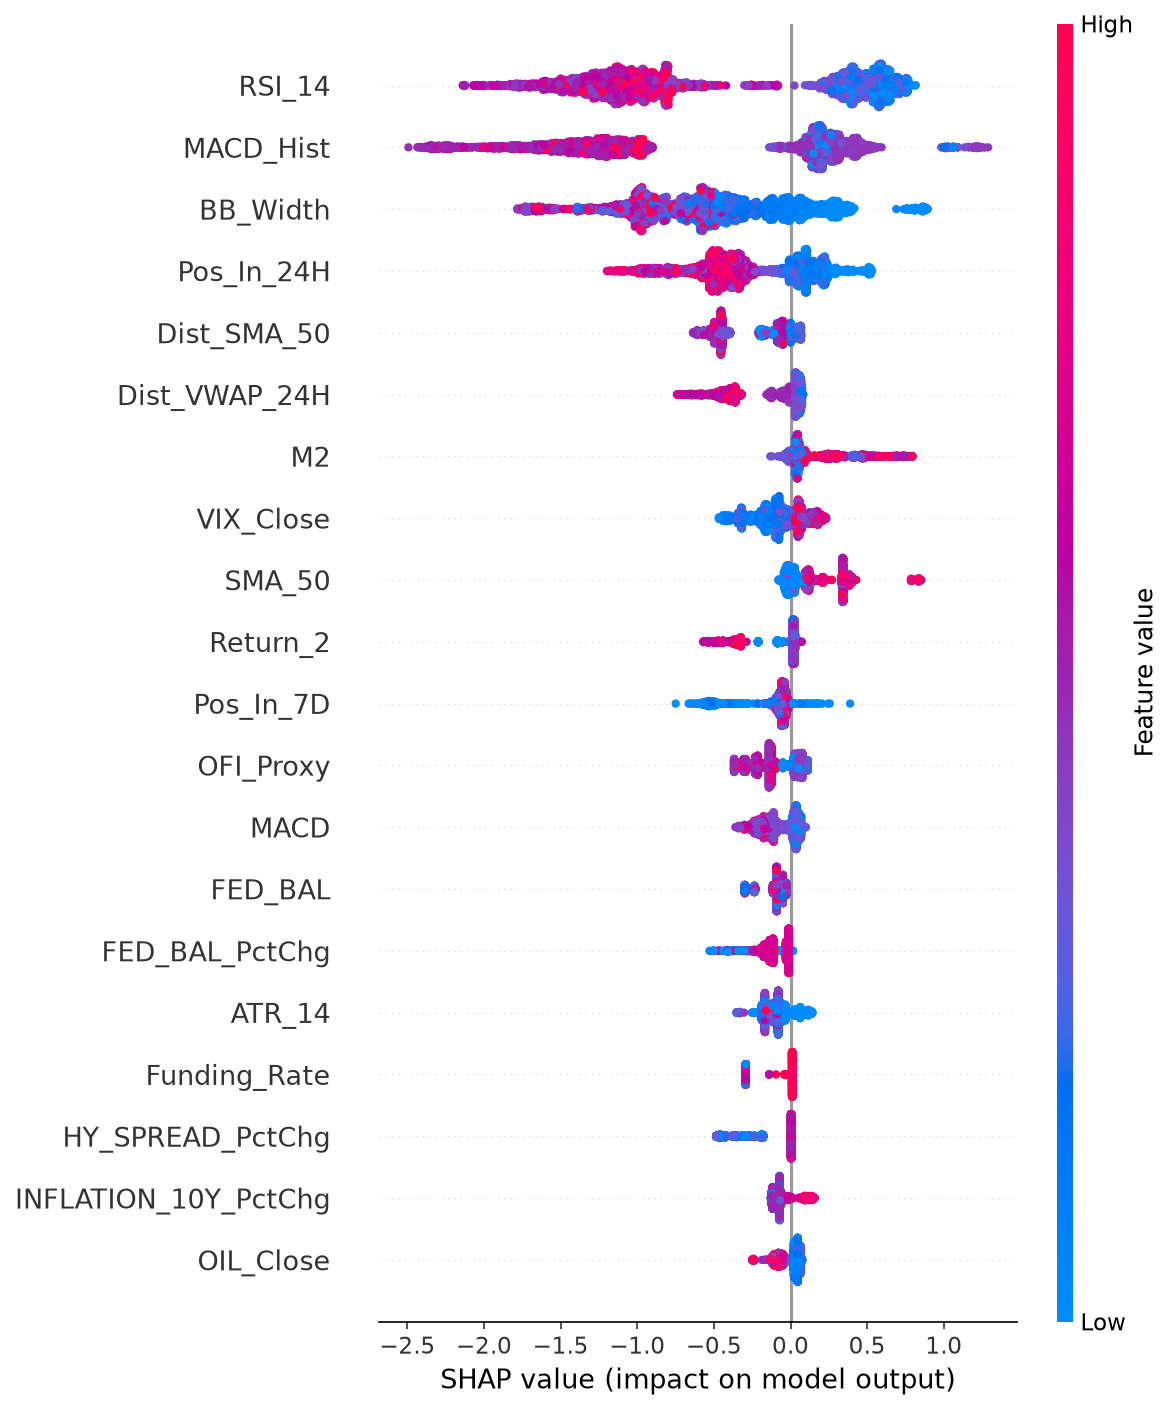
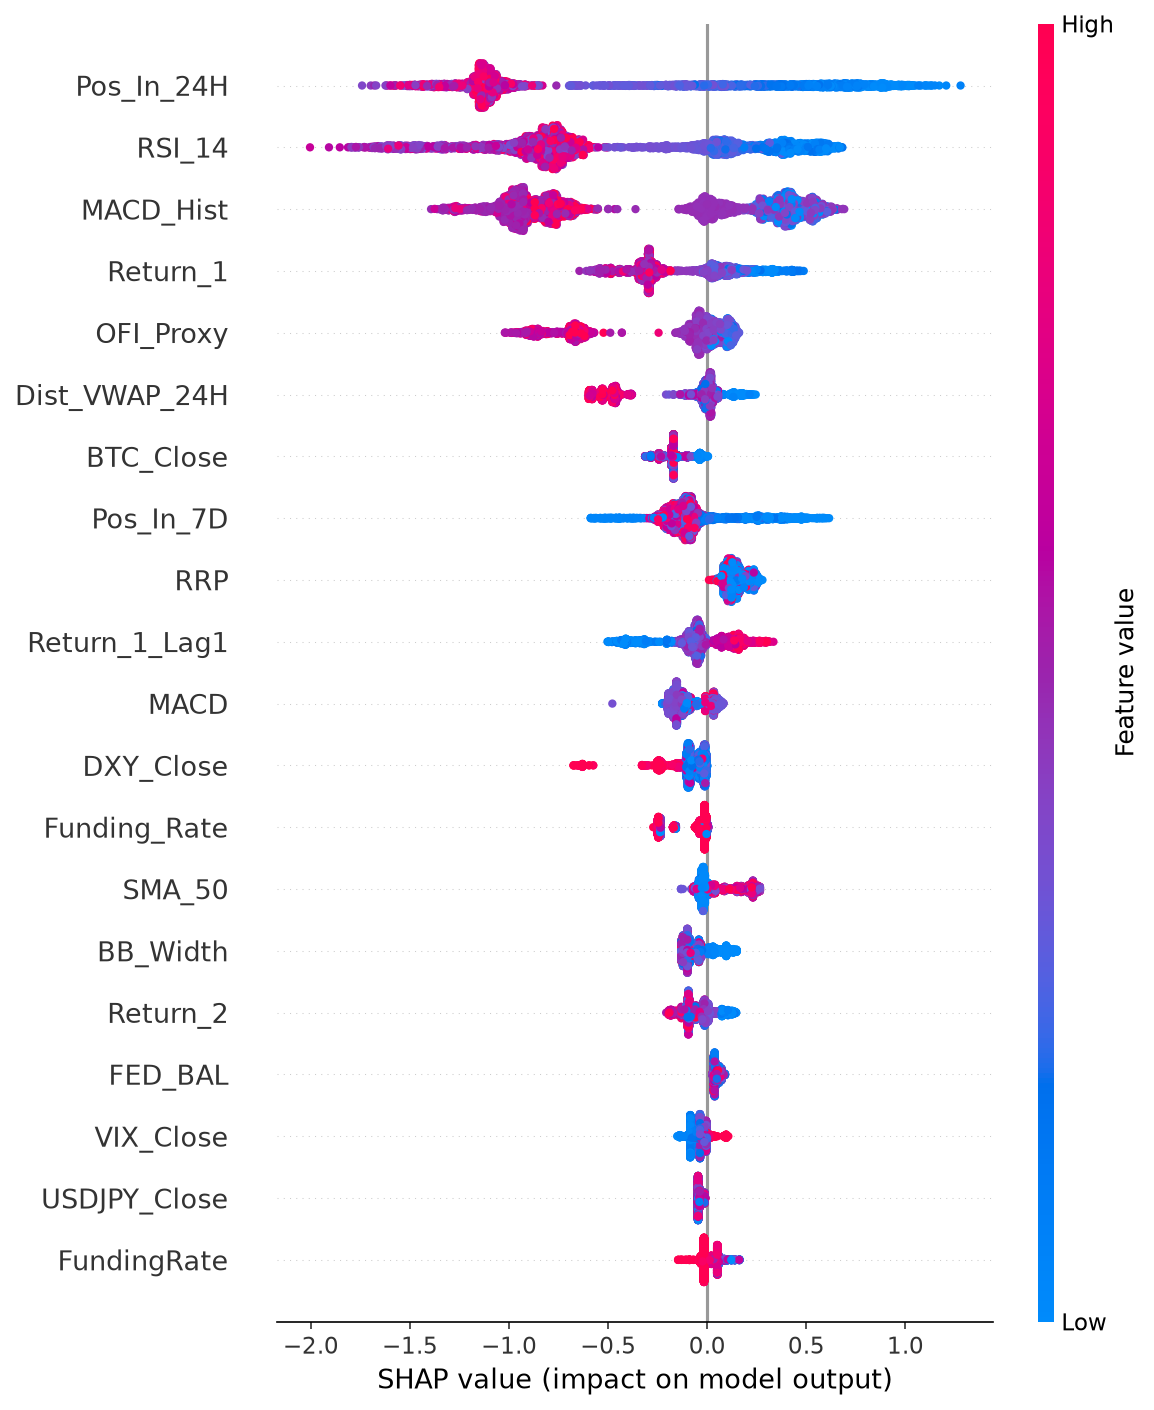
test1

diff --git a/core/research_agent.py b/core/research_agent.py
@@ -69,8 +69,8 @@ def make_nodes(optimizer, llm):
     def researcher_node(state: AgentState):
         log.info(f"[Researcher] Iteration {state['iteration']}")
         if state['iteration'] == 0:
-            state['tp_range'] = [0.03, 0.05, 0.08]
-            state['sl_range'] = [0.01, 0.02]
+            state['tp_range'] = [0.05, 0.10, 0.15, 0.20]
+            state['sl_range'] = [0.05, 0.10, 0.15, 0.20]
             state['messages'].append(SystemMessage(content="Started research."))
         else:
             clean_results = [{'tp_pct': r['tp_pct'], 'sl_pct': r['sl_pct'], 'precision': r['precision']} for r in state['top_results']]
@@ -78,10 +78,10 @@ def make_nodes(optimizer, llm):
                 "You are a Quant Researcher. Our last hyperparameter sweep results:\n"
                 f"{clean_results}\n"
                 f"Evaluator feedback: {state['feedback']}\n\n"
-                "Propose new TP and SL values to test. "
+                "Propose new TP and SL values to test. Aim for trend following with wide TP, but KEEP SL <= 0.30 to avoid bad entry points. "
                 "Respond ONLY in this exact format (no markdown):\n"
-                "TP: 0.04, 0.06, 0.09\n"
-                "SL: 0.015, 0.025"
+                "TP: 0.15, 0.20, 0.30\n"
+                "SL: 0.10, 0.20, 0.30"
             )
             try:
                 response = llm.invoke([HumanMessage(content=prompt)])
@@ -96,8 +96,8 @@ def make_nodes(optimizer, llm):
                 log.info(f"  LLM proposed: TP={tps}, SL={sls}")
             except Exception as e:
                 log.warning(f"  LLM parse failed ({e}), using fallback grid")
-                state['tp_range'] = [0.04, 0.06, 0.10]
-                state['sl_range'] = [0.015, 0.025]
+                state['tp_range'] = [0.08, 0.12, 0.20]
+                state['sl_range'] = [0.08, 0.12, 0.20]
         return state
 
     def executor_node(state: AgentState):
@@ -121,7 +121,7 @@ def make_nodes(optimizer, llm):
             log.info("  -> Max iterations reached. Stopping.")
             state['feedback'] = "FAIL_MAX_ITER"
         else:
-            state['feedback'] = f"Precision {prec:.4f} too low. Try wider TP or tighter SL."
+            state['feedback'] = f"Precision {prec:.4f} too low. Try wider SL to give the trade more room to breathe."
             state['iteration'] += 1
         return state
 

diff --git a/core/visualizer.py b/core/visualizer.py
@@ -11,7 +11,7 @@ class Visualizer:
         else:
             plot_df = self.df.copy()
 
-        if feature_importances is not None and not feature_importances.empty:
+        if feature_importances:
             fig = make_subplots(
                 rows=2, cols=1, 
                 shared_xaxes=False,
@@ -67,8 +67,10 @@ class Visualizer:
             ), row=1, col=1)
 
         # Feature Importance
-        if feature_importances is not None and not feature_importances.empty:
-            sorted_feats = feature_importances.sort_values(ascending=True)
+        if feature_importances:
+            import pandas as pd
+            feat_series = pd.Series(feature_importances)
+            sorted_feats = feat_series.sort_values(ascending=True)
             fig.add_trace(go.Bar(
                 x=sorted_feats.values,
                 y=sorted_feats.index,
@@ -83,7 +85,7 @@ class Visualizer:
             
         fig.update_layout(
             title=title, xaxis_rangeslider_visible=False,
-            template='plotly_dark', height=800 if (feature_importances is not None and not feature_importances.empty) else 600
+            template='plotly_dark', height=800 if feature_importances else 600
         )
         fig.show()
 
@@ -179,4 +181,27 @@ class Visualizer:
         ), row=2, col=1)
         
         fig.update_layout(title=f'Trade Analytics (Wins: {win_count}, Losses: {loss_count}, Conflicts Avoided: {conflict_count})', template='plotly_dark', height=700)
+        fig.show()
+
+    def plot_correlation_heatmap(self, feature_names):
+        """Plot Correlation Heatmap for the top features"""
+        features = [f for f in feature_names if f in self.df.columns]
+        if not features:
+            return
+            
+        corr = self.df[features].corr()
+        
+        fig = go.Figure(data=go.Heatmap(
+            z=corr.values,
+            x=corr.columns,
+            y=corr.columns,
+            colorscale='RdBu',
+            zmin=-1, zmax=1
+        ))
+        
+        fig.update_layout(
+            title='Top Features Correlation Heatmap',
+            template='plotly_dark',
+            width=800, height=800
+        )
         fig.show()

diff --git a/core/optimizer.py b/core/optimizer.py
@@ -54,7 +54,7 @@ class QuantOptimizer:
                 max_depth=3,
                 scale_pos_weight=scale_weight,
                 random_state=42,
-                n_jobs=-1,
+                n_jobs=4,
                 verbosity=0,
             )
             model.fit(X_train, y_train)
@@ -90,7 +90,7 @@ class QuantOptimizer:
             'last_X_test': last_X_test
         }
 
-    def evaluate_params(self, tp_pct, sl_pct, max_bars=40):
+    def evaluate_params(self, tp_pct, sl_pct, max_bars=300):
         """Evaluate a single TP/SL config using TimeSeriesSplit CV for both Long and Short."""
         # 1. Generate Labels
         labeler = self.label_generator_class(

diff --git a/core/labels.py b/core/labels.py
@@ -11,7 +11,7 @@ import numpy as np
 
 
 class LabelGenerator:
-    def __init__(self, df, window=20, tp_pct=0.03, sl_pct=0.01, max_bars=40):
+    def __init__(self, df, window=20, tp_pct=0.03, sl_pct=0.01, max_bars=300):
         self.df = df.copy()
         self.window = window
         self.tp_pct = tp_pct

diff --git a/data/zecusdt/summary_report.md b/data/zecusdt/summary_report.md
@@ -1,17 +1,17 @@
 # 📊 Quant Research Report: ZECUSDT (Long/Short Dual Model)
 
 ## 1. ⚙ การตั้งค่าที่ให้ผลลัพธ์ดีที่สุด (Best Configuration)
-- **Take Profit (TP):** 12.0%
-- **Stop Loss (SL):** 0.8%
-- **ความแม่นยำรวม (Precision):** 2.84%
+- **Take Profit (TP):** 35.0%
+- **Stop Loss (SL):** 25.0%
+- **ความแม่นยำรวม (Precision):** 5.49%
 
-> **💡 ความหมาย:** เมื่อโมเดลสั่งเทรด ราคาจะมีโอกาสวิ่งไปชน TP ก่อน SL ด้วยความแม่นยำประมาณ 2.84%
+> **💡 ความหมาย:** เมื่อโมเดลสั่งเทรด ราคาจะมีโอกาสวิ่งไปชน TP ก่อน SL ด้วยความแม่นยำประมาณ 5.49%
 
 ## 2. 📉 ผลการจำลองเทรด (Trade Simulation & Confusion Matrix)
-- **จำนวนไม้ทั้งหมดที่โมเดลบอกให้เทรด (Total Trades):** 1084 (Long: 720, Short: 364)
-- **ชนะ (Wins):** 24
-- **แพ้ (Losses):** 1060
-- **Win Rate รวม:** 2.21%
+- **จำนวนไม้ทั้งหมดที่โมเดลบอกให้เทรด (Total Trades):** 2394 (Long: 1368, Short: 1026)
+- **ชนะ (Wins):** 101
+- **แพ้ (Losses):** 2293
+- **Win Rate รวม:** 4.22%
 
 ## 3. 🧠 SHAP Values (Explainable AI)
 วิเคราะห์ว่า Feature แต่ละตัวส่งผลอย่างไรต่อการตัดสินใจของโมเดล (จุดสีแดง = ค่าสูง, จุดสีน้ำเงิน = ค่าต่ำ)
@@ -23,13 +23,13 @@
 ![SHAP Short](./shap_short.png)
 
 ## 4. 🔍 ปัจจัยที่มีผลต่อการตัดสินใจมากที่สุด (Top Feature Importances)
-1. **RSI_14** (Score: 0.1370)
-2. **FED_BAL** (Score: 0.0567)
-3. **Pos_In_7D** (Score: 0.0452)
-4. **RRP_PctChg** (Score: 0.0452)
-5. **MACD_Hist** (Score: 0.0433)
-6. **BB_Width** (Score: 0.0428)
-7. **Pos_In_24H** (Score: 0.0370)
-8. **RRP** (Score: 0.0359)
-9. **OFI_Proxy** (Score: 0.0340)
-10. **FearGreed** (Score: 0.0318)
+1. **RSI_14** (Score: 0.1101)
+2. **Pos_In_24H** (Score: 0.0965)
+3. **Pos_In_7D** (Score: 0.0407)
+4. **MACD_Hist** (Score: 0.0390)
+5. **RRP_PctChg** (Score: 0.0379)
+6. **Return_1** (Score: 0.0373)
+7. **BTC_Close** (Score: 0.0356)
+8. **OFI_Proxy** (Score: 0.0343)
+9. **SMA_50** (Score: 0.0342)
+10. **ATR_14** (Score: 0.0313)
